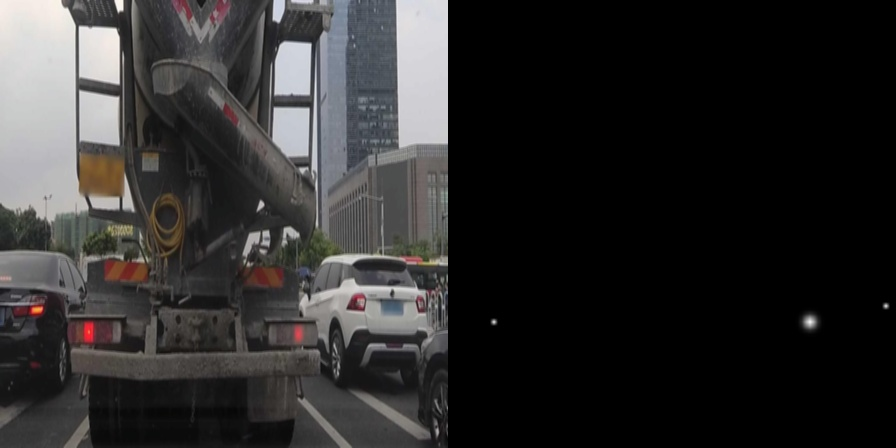
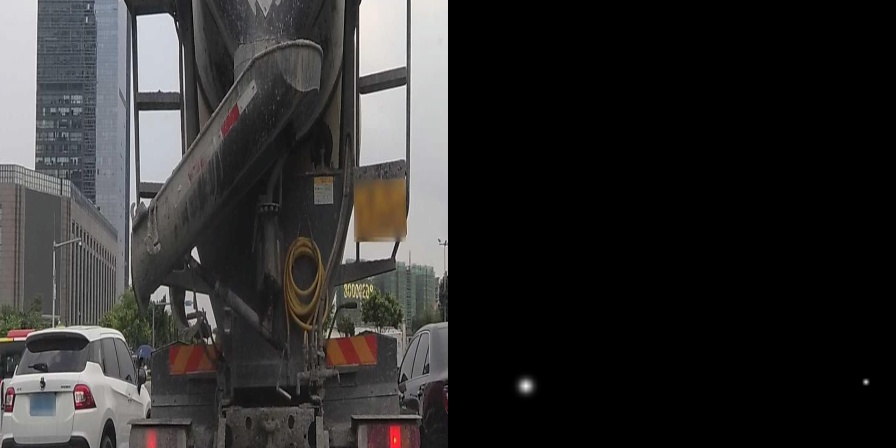
modify visualizer

diff --git a/a3/visualizer.py b/a3/visualizer.py
@@ -28,7 +28,7 @@ if __name__ == "__main__":
     train_iter = iter(train_loader)
     mean = np.array([123.675, 116.280, 103.530])
     std = np.array([58.395, 57.120, 57.375])
-    for i in range(3):
+    for i in range(4):
         img, target = next(train_iter)
         batch_size, h0, w0, _ = img.shape
         # print('img.shape', img.shape)  # n, h, w, c
